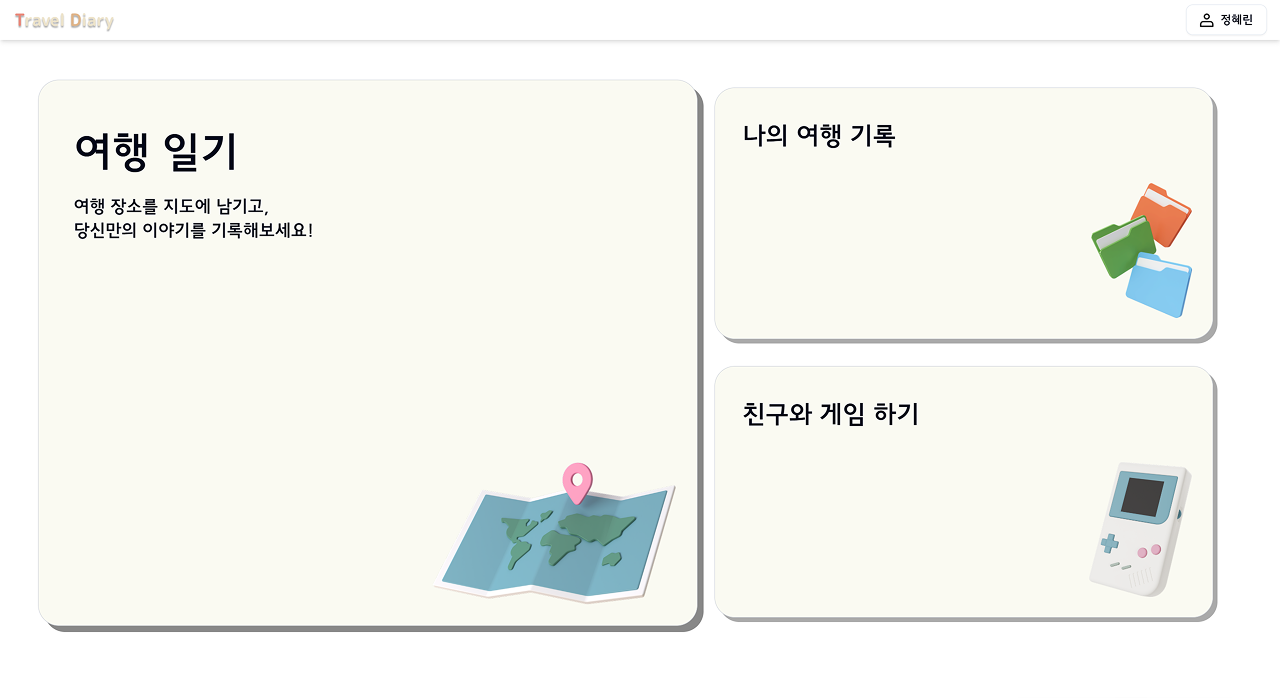
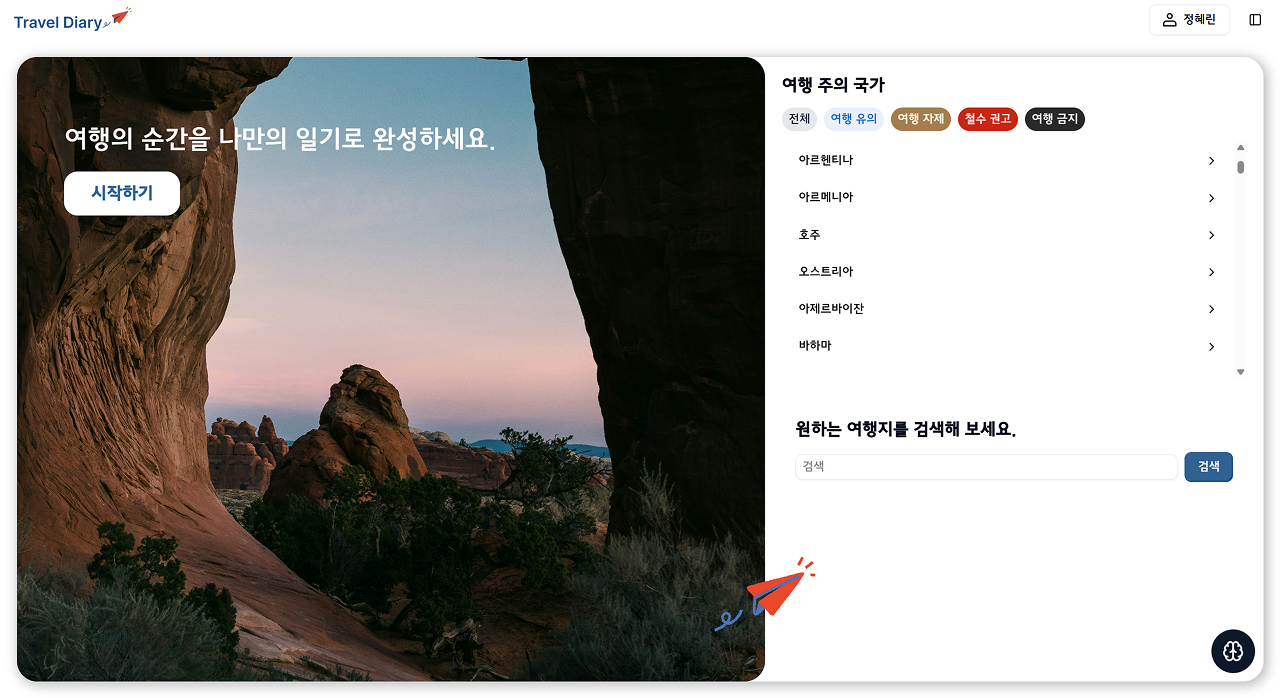
styles: 스타일 수정 및 사진 추가

diff --git a/src/components/unit/project/travel_diary.tsx b/src/components/unit/project/travel_diary.tsx
@@ -25,17 +25,19 @@ export function Travel_diary() {
             </div>
 
             {/* URL */}
-            <div className="flex flex-col md:flex-row gap-4">
-                <Link className="flex-1 p-4 bg-[#D9D9D9] rounded-md hover:bg-gray-300 transition text-center" href="https://travel-diary.hyerin.store" target="_blank">
-                    <span className="font-semibold">Travel_Diary 바로가기</span>
-                </Link>
-
-                <Link className="flex-1 p-4 bg-[#D9D9D9] rounded-md hover:bg-gray-300 transition text-center" href="https://github.com/hyerin1219/bookPath" target="_blank">
+            <div className="flex flex-col items-center  md:flex-row gap-4">
+                <div className="flex-1 w-full flex items-center gap-3 border-2 p-2 rounded-lg">
+                    <img className="w-15" src="image/travel_diary/qr.png" alt="" />
+                    <Link className="w-full p-4 bg-[#D9D9D9] rounded-md hover:bg-gray-300 transition text-center" href="https://travel-diary.hyerin.store" target="_blank">
+                        <span className="font-semibold">Travel_Diary 바로가기</span>
+                    </Link>
+                </div>
+                <Link className="flex-1 w-full  p-4 bg-[#D9D9D9] rounded-md hover:bg-gray-300 transition text-center" href="https://github.com/hyerin1219/bookPath" target="_blank">
                     <img className="h-6 mr-2" src="image/ico_github.png" alt="GitHub" />
                     <span>GitHub 가기</span>
                 </Link>
 
-                <Link className="flex-1 p-4 bg-[#D9D9D9] rounded-md hover:bg-gray-300 transition text-center" href="https://figmashort.link/wx6mfH" target="_blank">
+                <Link className="flex-1 w-full  p-4 bg-[#D9D9D9] rounded-md hover:bg-gray-300 transition text-center" href="https://figmashort.link/wx6mfH" target="_blank">
                     <img className="h-6 mr-2" src="image/ico_figma.png" alt="Figma" />
                     <span>Figma 가기</span>
                 </Link>
@@ -81,9 +83,14 @@ export function Travel_diary() {
                 <div className="grid grid-cols-1 md:grid-cols-2 gap-4">
                     {[
                         {
-                            img: '/image/travel_diary/img_main.png',
+                            img: '/image/travel_diary/img_main_v2.png',
                             title: '메인 화면',
-                            desc: ['배열 기반으로 메뉴 정보 관리', 'Framer Motion으로 애니메이션을 적용해 사용자 경험 강화', 'useAuth 훅을 통해 로그인 여부를 확인하여, 인증이 필요한 메뉴 이동 제한'],
+                            desc: ['useAuth 훅을 통해 로그인 여부를 확인하여, 인증이 필요한 메뉴 이동 제한', '외교부 여행 경보 제도 api를 이용하여 여행 주의 국가 데이터 출력 후 단계별 데이터 필터링', '여행지 검색창에서 입력된 검색어를 router query를 이용하여 지도 페이지로 이동한 뒤 검색어에 맞는 위치의 지도 로드 ', '경보 단계별 색상·라벨를 재사용 가능하게 구현'],
+                        },
+                        {
+                            img: '/image/travel_diary/img07.png',
+                            title: '여행 주의 국가 정보 모달',
+                            desc: ['다이얼로그 컴포넌트를 이용하여 모달창 생성', '데이터가 없거나 단계가 null인 경우 필터링하여 필요한 정보를 깔끔하게 구현'],
                         },
                         {
                             img: '/image/travel_diary/img01.png',
@@ -160,6 +167,11 @@ export function Travel_diary() {
             {/* 사용자 피드백 반영 내용 */}
             <div className="space-y-2">
                 <p className="text-[#519AD6] font-bold md:text-xl text-lg">사용자 피드백 반영 내용</p>
+                <div className="flex items-center justify-between">
+                    <img className="w-[47%] mb-2 rounded-md shadow-[2px_2px_6px_rgba(0,0,0,0.3)]" src="/image/travel_diary/img_main.png" alt="메인 화면 변경 전" />
+                    <span className="text-2xl">➡</span>
+                    <img className="w-[47%] mb-2 rounded-md shadow-[2px_2px_6px_rgba(0,0,0,0.3)]" src="/image/travel_diary/img_main_v2.png" alt="메인 화면 변경 후" />
+                </div>
                 <ul>
                     <li className="flex items-center gap-2">
                         <span className="flex-shrink-0 inline-block w-[4px] h-[4px] bg-black rounded-full"></span>
@@ -175,7 +187,7 @@ export function Travel_diary() {
                     </li>
                     <li className="flex items-center gap-2">
                         <span className="flex-shrink-0 inline-block w-[4px] h-[4px] bg-black rounded-full"></span>
-                        서비스 콘셉트(여행)에 맞춘 맞춤형 콘텐츠 추가 — 여행 주의 국가 정보, 메인 페이지 여행지 검색 기능 등 제공
+                        서비스 콘셉트에 맞춘 콘텐츠 추가 — 여행 주의 국가 정보, 메인 페이지 여행지 검색 기능 등 제공
                     </li>
                 </ul>
             </div>
